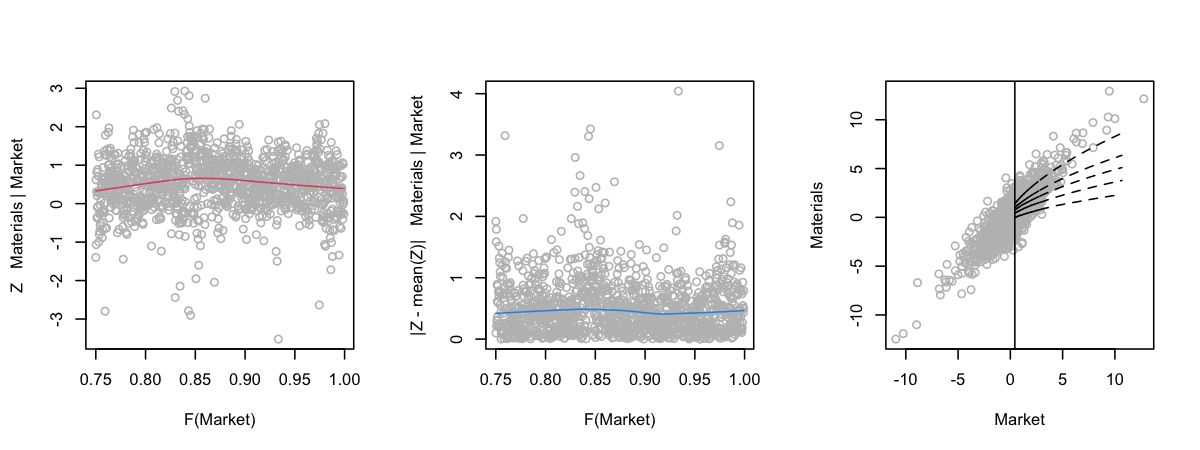
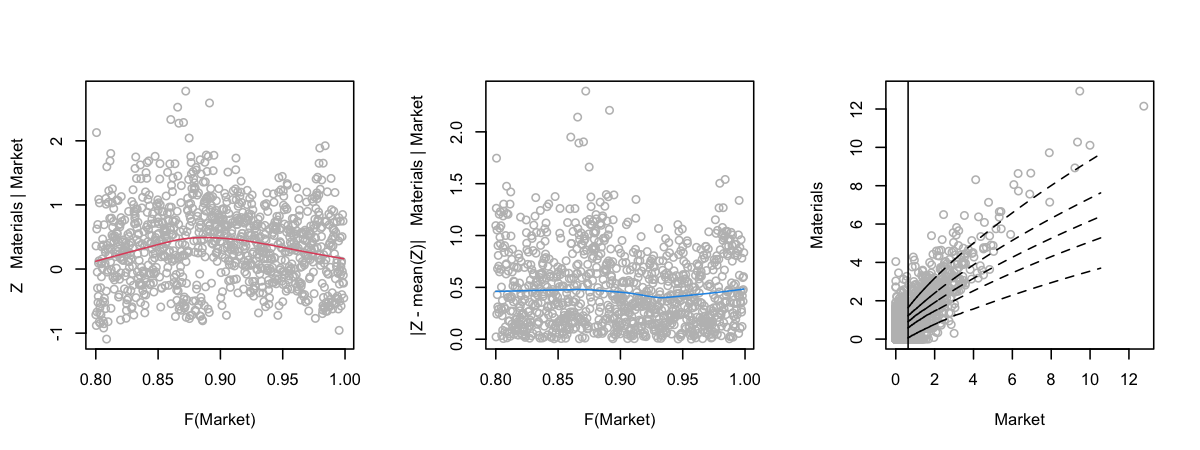
texmex update

diff --git a/R_Notebooks/texmex.md b/R_Notebooks/texmex.md
@@ -44,18 +44,18 @@ Done in EDA section.
 <p align="center">
 
     ## Conditioning on Market variable.
-    ## Thresholding quantiles for transformed data: dqu = 0.75
+    ## Thresholding quantiles for transformed data: dqu = 0.8
     ## Using laplace margins for dependence estimation.
     ## Constrained estimation of dependence parameters using v = 10 .
-    ## Log-likelihood = -1793 -1369 -1194 -1561 -1304 -1476 -1583 -1766 -2008 -1860 -1870 
+    ## Log-likelihood = -1311 -1121 -907 -1134 -978 -1070 -1217 -1309 -1430 -1376 -1355 
     ## 
     ## Dependence structure parameter estimates:
     ##   Communication.Services Technology Industrial Materials Consumer.Discretionary
-    ## a                   0.84      0.895        0.7      0.43                   0.41
-    ## b                   0.13      0.068        0.3      0.45                   0.45
+    ## a                   0.47       0.12       0.50      0.60                   0.25
+    ## b                   0.39       0.57       0.48      0.37                   0.59
     ##   Financial Health.Care Consumer.Staples Utilities Real.Estate Energy
-    ## a      0.63        0.65             0.51      0.82        0.83   0.32
-    ## b      0.33        0.32             0.30      0.16        0.13   0.38
+    ## a      0.65        0.43             0.45      0.71        0.50   0.50
+    ## b      0.32        0.43             0.38      0.28        0.39   0.35
 
 </p>
 
@@ -71,13 +71,17 @@ Done in EDA section.
 
 <p align="center">
 
-    ## mexRangeFit run time: 507.779 sec elapsed
+</p>
+
+<p align="center">
+
+    ## mexRangeFit run time: 443.073 sec elapsed
 
 </p>
 
 <p align="center">
 
-<img src="cache/texmex/unnamed-chunk-8-1.png" style="display: block; margin: auto;" /><img src="cache/texmex/unnamed-chunk-8-2.png" style="display: block; margin: auto;" /><img src="cache/texmex/unnamed-chunk-8-3.png" style="display: block; margin: auto;" /><img src="cache/texmex/unnamed-chunk-8-4.png" style="display: block; margin: auto;" />
+<img src="cache/texmex/unnamed-chunk-9-1.png" style="display: block; margin: auto;" /><img src="cache/texmex/unnamed-chunk-9-2.png" style="display: block; margin: auto;" /><img src="cache/texmex/unnamed-chunk-9-3.png" style="display: block; margin: auto;" /><img src="cache/texmex/unnamed-chunk-9-4.png" style="display: block; margin: auto;" />
 
 </p>
 
@@ -85,30 +89,30 @@ Done in EDA section.
 
 <p align="center">
 
-<img src="cache/texmex/unnamed-chunk-9-1.png" style="display: block; margin: auto;" /><img src="cache/texmex/unnamed-chunk-9-2.png" style="display: block; margin: auto;" /><img src="cache/texmex/unnamed-chunk-9-3.png" style="display: block; margin: auto;" /><img src="cache/texmex/unnamed-chunk-9-4.png" style="display: block; margin: auto;" /><img src="cache/texmex/unnamed-chunk-9-5.png" style="display: block; margin: auto;" /><img src="cache/texmex/unnamed-chunk-9-6.png" style="display: block; margin: auto;" /><img src="cache/texmex/unnamed-chunk-9-7.png" style="display: block; margin: auto;" /><img src="cache/texmex/unnamed-chunk-9-8.png" style="display: block; margin: auto;" /><img src="cache/texmex/unnamed-chunk-9-9.png" style="display: block; margin: auto;" /><img src="cache/texmex/unnamed-chunk-9-10.png" style="display: block; margin: auto;" /><img src="cache/texmex/unnamed-chunk-9-11.png" style="display: block; margin: auto;" />
+<img src="cache/texmex/unnamed-chunk-10-1.png" style="display: block; margin: auto;" /><img src="cache/texmex/unnamed-chunk-10-2.png" style="display: block; margin: auto;" /><img src="cache/texmex/unnamed-chunk-10-3.png" style="display: block; margin: auto;" /><img src="cache/texmex/unnamed-chunk-10-4.png" style="display: block; margin: auto;" /><img src="cache/texmex/unnamed-chunk-10-5.png" style="display: block; margin: auto;" /><img src="cache/texmex/unnamed-chunk-10-6.png" style="display: block; margin: auto;" /><img src="cache/texmex/unnamed-chunk-10-7.png" style="display: block; margin: auto;" /><img src="cache/texmex/unnamed-chunk-10-8.png" style="display: block; margin: auto;" /><img src="cache/texmex/unnamed-chunk-10-9.png" style="display: block; margin: auto;" /><img src="cache/texmex/unnamed-chunk-10-10.png" style="display: block; margin: auto;" /><img src="cache/texmex/unnamed-chunk-10-11.png" style="display: block; margin: auto;" />
 
 </p>
 
 <p align="center">
 
     ## Conditioning on Market variable.
-    ## Thresholding quantiles for transformed data: dqu = 0.7
+    ## Thresholding quantiles for transformed data: dqu = 0.75
     ## Using laplace margins for dependence estimation.
     ## Constrained estimation of dependence parameters using v = 10 .
-    ## Log-likelihood = -2097 -1589 -1307 -1722 -1366 -1640 -1821 -2022 -2363 -2192 -2116 
+    ## Log-likelihood = -1567 -1279 -978 -1303 -1061 -1231 -1392 -1556 -1709 -1624 -1595 
     ## 
     ## Dependence structure parameter estimates:
     ##   Communication.Services Technology Industrial Materials Consumer.Discretionary
-    ## a                   0.83      0.884      0.979      0.93                  0.948
-    ## b                   0.13      0.075     -0.019      0.10                  0.078
+    ## a                   0.77      0.862      0.968      0.88                  0.933
+    ## b                   0.17      0.088      0.051      0.16                  0.098
     ##   Financial Health.Care Consumer.Staples Utilities Real.Estate Energy
-    ## a     0.925        0.88             0.82      0.79        0.77   0.87
-    ## b     0.097        0.14             0.15      0.15        0.14   0.13
+    ## a      0.89        0.81             0.77      0.65        0.71   0.80
+    ## b      0.14        0.20             0.18      0.31        0.20   0.18
 
 </p>
 
 <p align="center">
 
-<img src="cache/texmex/unnamed-chunk-11-1.png" style="display: block; margin: auto;" /><img src="cache/texmex/unnamed-chunk-11-2.png" style="display: block; margin: auto;" /><img src="cache/texmex/unnamed-chunk-11-3.png" style="display: block; margin: auto;" /><img src="cache/texmex/unnamed-chunk-11-4.png" style="display: block; margin: auto;" /><img src="cache/texmex/unnamed-chunk-11-5.png" style="display: block; margin: auto;" /><img src="cache/texmex/unnamed-chunk-11-6.png" style="display: block; margin: auto;" /><img src="cache/texmex/unnamed-chunk-11-7.png" style="display: block; margin: auto;" /><img src="cache/texmex/unnamed-chunk-11-8.png" style="display: block; margin: auto;" /><img src="cache/texmex/unnamed-chunk-11-9.png" style="display: block; margin: auto;" /><img src="cache/texmex/unnamed-chunk-11-10.png" style="display: block; margin: auto;" /><img src="cache/texmex/unnamed-chunk-11-11.png" style="display: block; margin: auto;" />
+<img src="cache/texmex/unnamed-chunk-12-1.png" style="display: block; margin: auto;" /><img src="cache/texmex/unnamed-chunk-12-2.png" style="display: block; margin: auto;" /><img src="cache/texmex/unnamed-chunk-12-3.png" style="display: block; margin: auto;" /><img src="cache/texmex/unnamed-chunk-12-4.png" style="display: block; margin: auto;" /><img src="cache/texmex/unnamed-chunk-12-5.png" style="display: block; margin: auto;" /><img src="cache/texmex/unnamed-chunk-12-6.png" style="display: block; margin: auto;" /><img src="cache/texmex/unnamed-chunk-12-7.png" style="display: block; margin: auto;" /><img src="cache/texmex/unnamed-chunk-12-8.png" style="display: block; margin: auto;" /><img src="cache/texmex/unnamed-chunk-12-9.png" style="display: block; margin: auto;" /><img src="cache/texmex/unnamed-chunk-12-10.png" style="display: block; margin: auto;" /><img src="cache/texmex/unnamed-chunk-12-11.png" style="display: block; margin: auto;" />
 
 </p>
